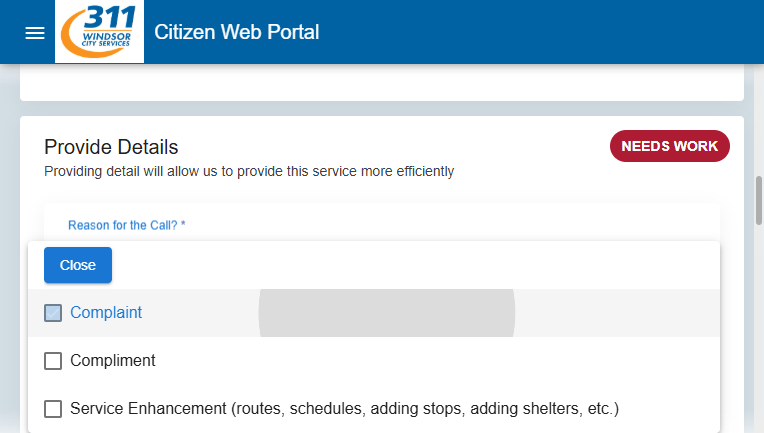
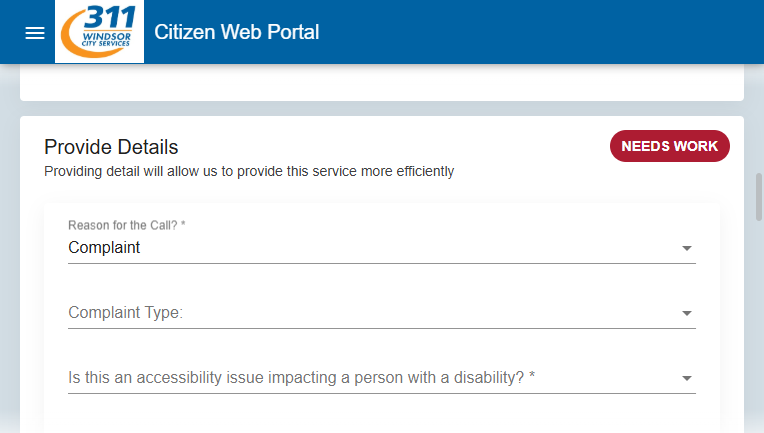
Longer wait to hit Complaint button

diff --git a/threeoneone.py b/threeoneone.py
@@ -65,17 +65,22 @@ def run_selenium(user_location, complaint_reason, accessibility_input, route_num
     call_reason = browser.find_element(By.XPATH, '//span[@class="mat-option-text" and normalize-space(text())="Complaint"]')
     safe_click(browser, call_reason)
     print(" --- COMPLAINT SELECTED --- ", flush=True) 
-    browser.get_screenshot_as_file("screenshots/screenshot.png") 
     #Its doing something weird so we need to click the body of the DOM to close the complaint window and "spawn" the "Reason for complaint"
     browser.find_element(By.XPATH, ("//body")).click() 
     print(" --- body selected --- ", flush=True)
-    time.sleep(1)
+    time.sleep(3)
+    browser.get_screenshot_as_file("screenshots/screenshot.png") 
     #browser.get_screenshot_as_file("screenshots/screenshot.png")
     #Reason for Complaing
     
-    complaint_reason_button = browser.find_element(By.XPATH,'//mat-label[contains(text(), "Complaint Type:")]/ancestor::mat-form-field//mat-select')
-    actions.move_to_element(complaint_reason_button).perform()
-    safe_click(browser, complaint_reason_button)
+    try:
+        complaint_reason_button = browser.find_element(By.XPATH,'//mat-label[contains(text(), "Complaint Type:")]/ancestor::mat-form-field//mat-select')
+        actions.move_to_element(complaint_reason_button).perform()
+    except Exception as e:
+        print (f'Locating button failed with {e}, manually scrolling.')
+        browser.execute_script("arguments[0].scrollIntoView({block: 'center'});", complaint_reason_button)
+        safe_click(browser, complaint_reason_button)
+    
     #complain_wait = wait.until(EC.element_to_be_clickable((By.XPATH, '//mat-label[contains(text(), "Complaint Type:")]/ancestor::mat-form-field//mat-select')))
     time.sleep(1)
     complaint_reason = browser.find_element(By.XPATH, f'//span[@class="mat-option-text" and normalize-space(text())="{complaint_reason}"]')
